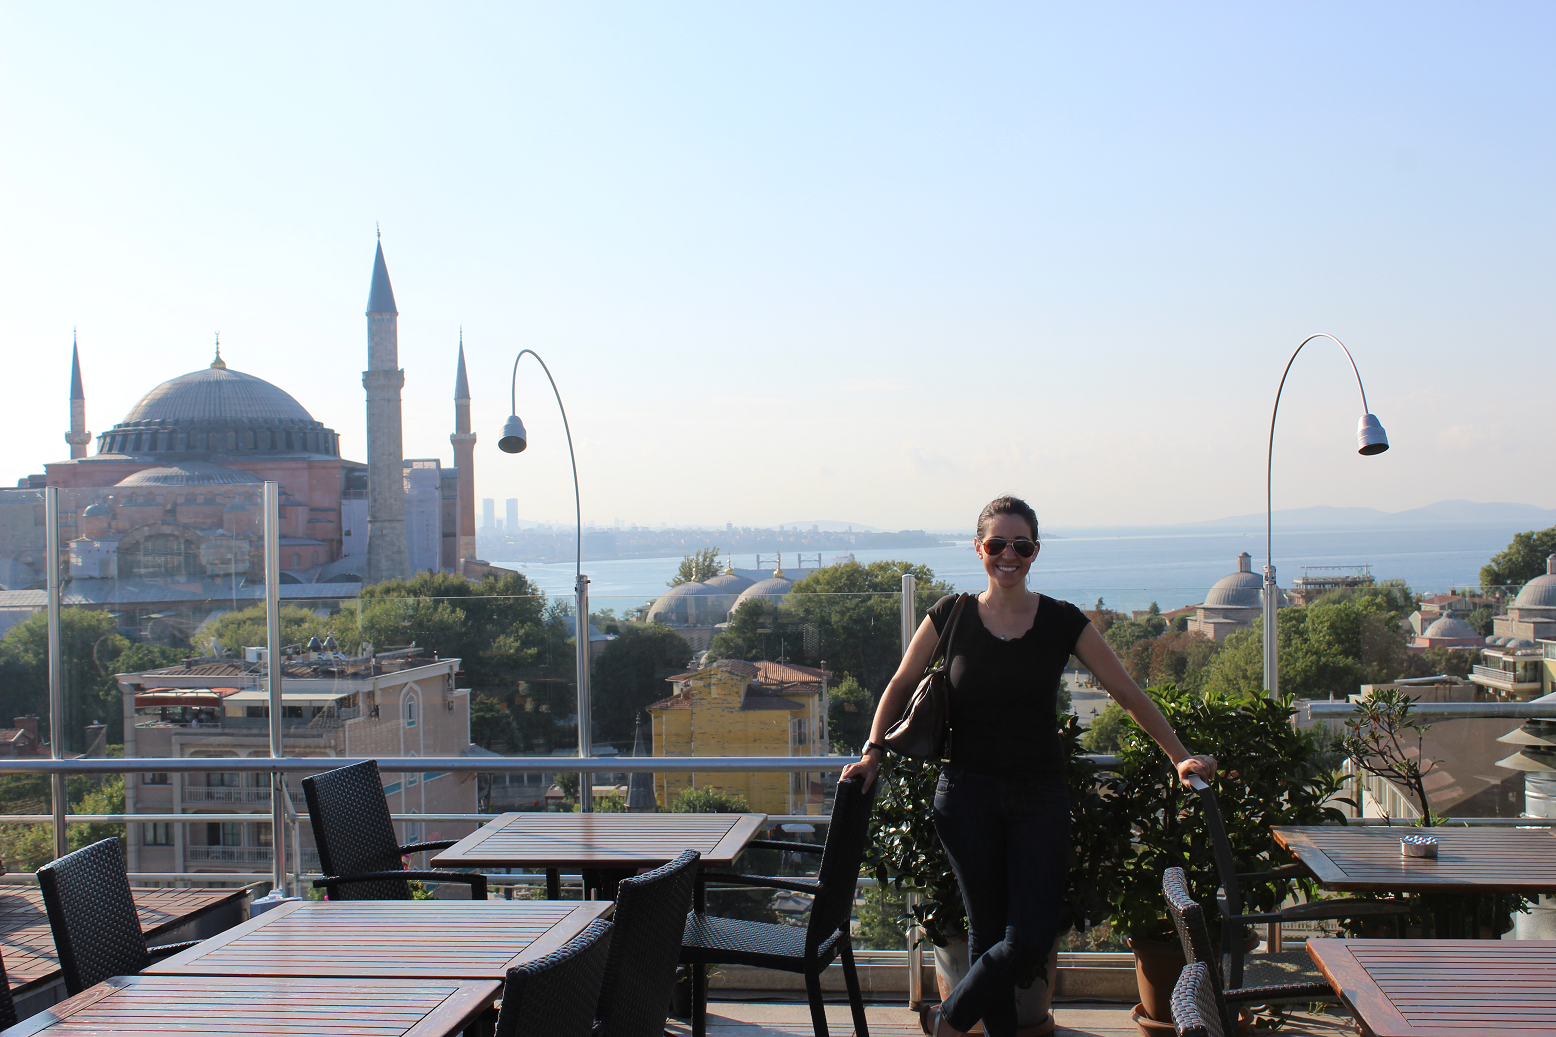
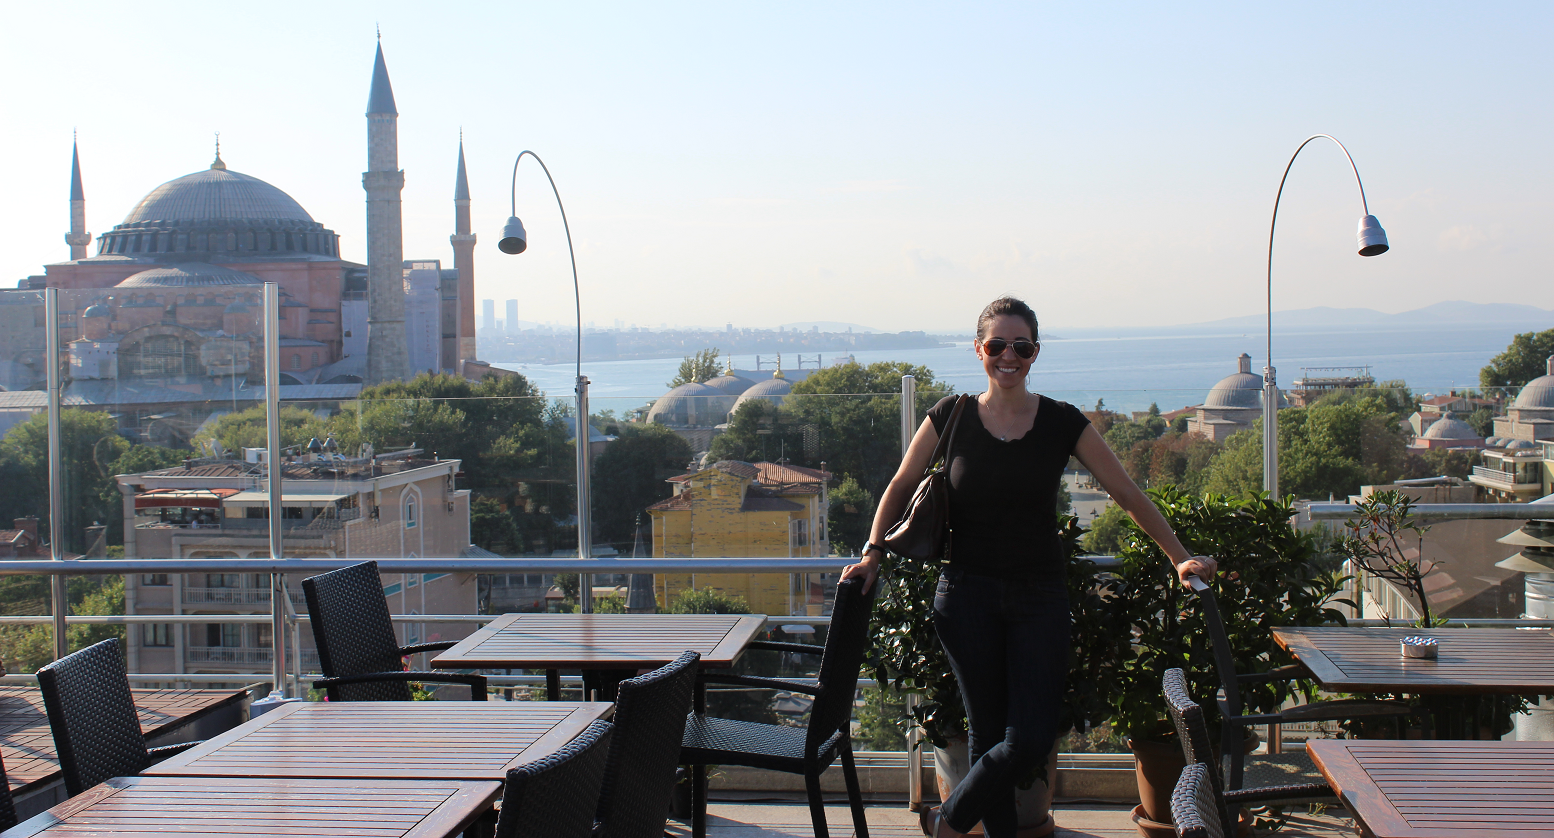
Changed location and cropped pics

diff --git a/contactbeth.html b/contactbeth.html
@@ -15,7 +15,7 @@
 </head>
 <body>
           <style>
-              body{background:url(images/IMG_6134.jpg);
+              body{background:url(images/contactpic.png);
               background-size:100%;
               background-repeat:no-repeat}
               .fa {color: #99E7DE}
